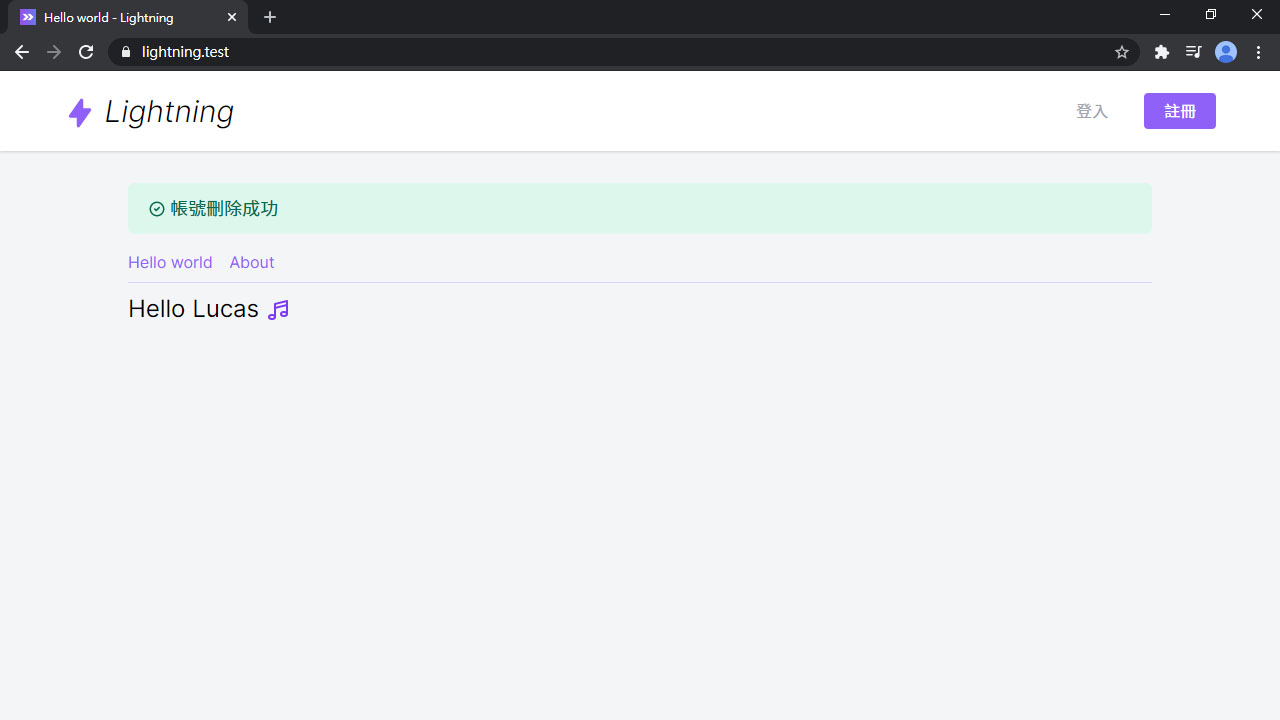
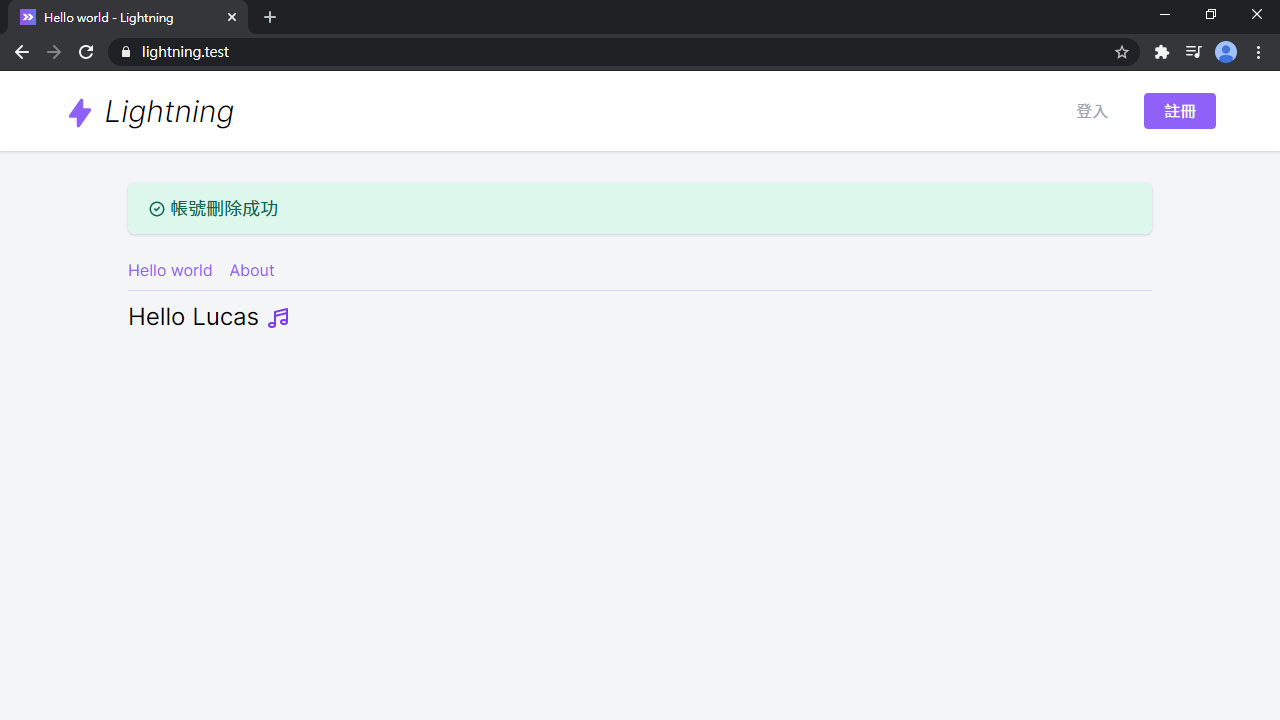
Update day 13

Changed region(s): [[0.0938, 0.3361, 0.25, 0.4583]]

diff --git a/docs/Day_13.md b/docs/Day_13.md
@@ -76,7 +76,7 @@ export default {
 ```vue
 <template>
   <div class="container py-8">
-    <alert v-if="$page.flash.success" class="mb-4">{{ $page.flash.success }}</alert>
+    <alert v-if="$page.flash.success" class="shadow mb-6">{{ $page.flash.success }}</alert>
     ...
   </div>
 </template>
@@ -113,13 +113,13 @@ php artisan db:seed --class=UserSeeder
 Route::get('user/{user}', 'User\ProfileController@index');
 ```
 
-每個用戶都會有不同的網址，我們來新增一個 `ProfileController` 管用戶頁面：
+每個用戶頁面都會有不同的網址，我們來新增一個 `ProfileController` 管用戶頁面：
 
 ```bash
 php artisan make:controller User/ProfileController
 ```
 
-`ProfileController` 內容：
+回傳用戶頁面：
 
 *app/Http/Controllers/User/ProfileController.php*
 ```php
@@ -175,7 +175,7 @@ export default {
 最後在右上選單裡增加我的主頁連結：
 
 *resources/js/Layouts/AppLayout.vue*
-```vue
+```html
 <template #menu="{ close }">
   <dropdown-item :href="`/user/${user.id}`" icon="heroicons-outline:home" @click="close">
     我的主頁
